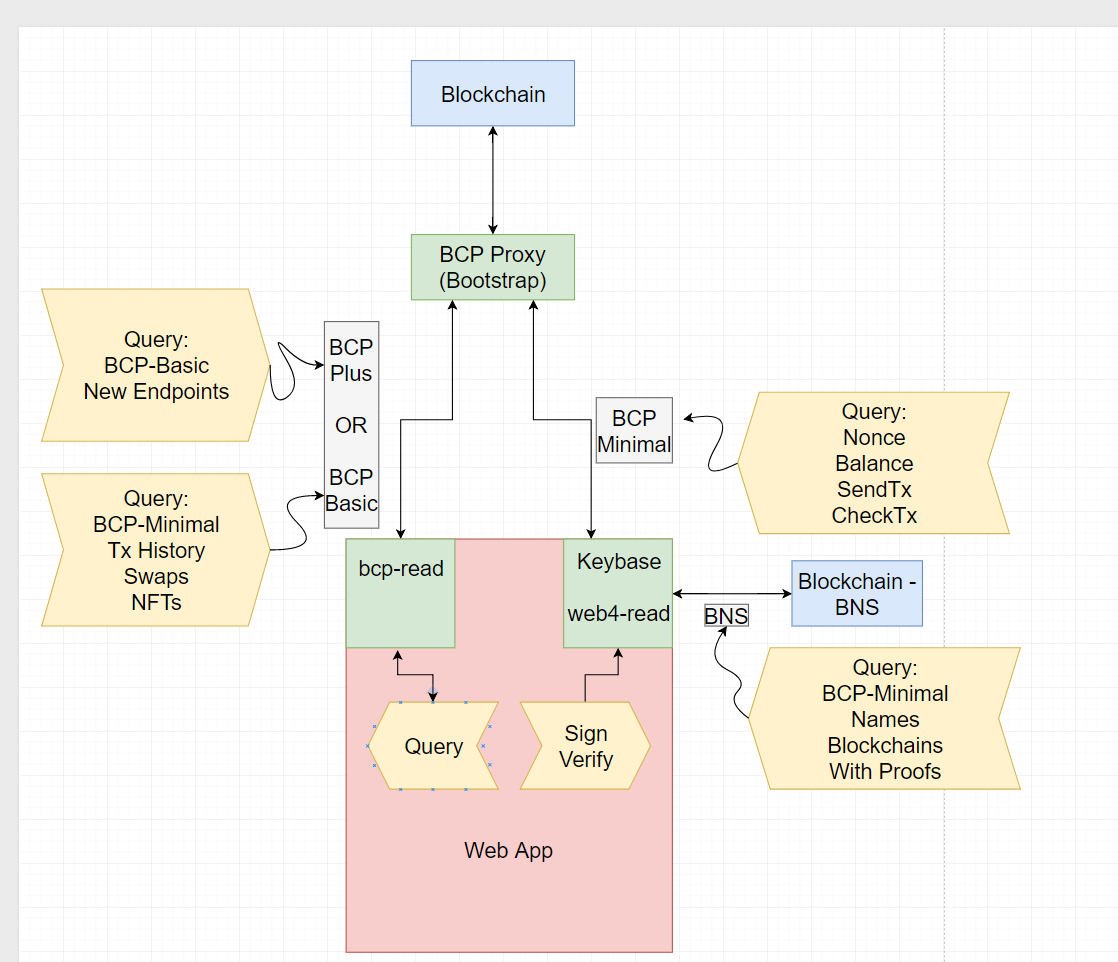
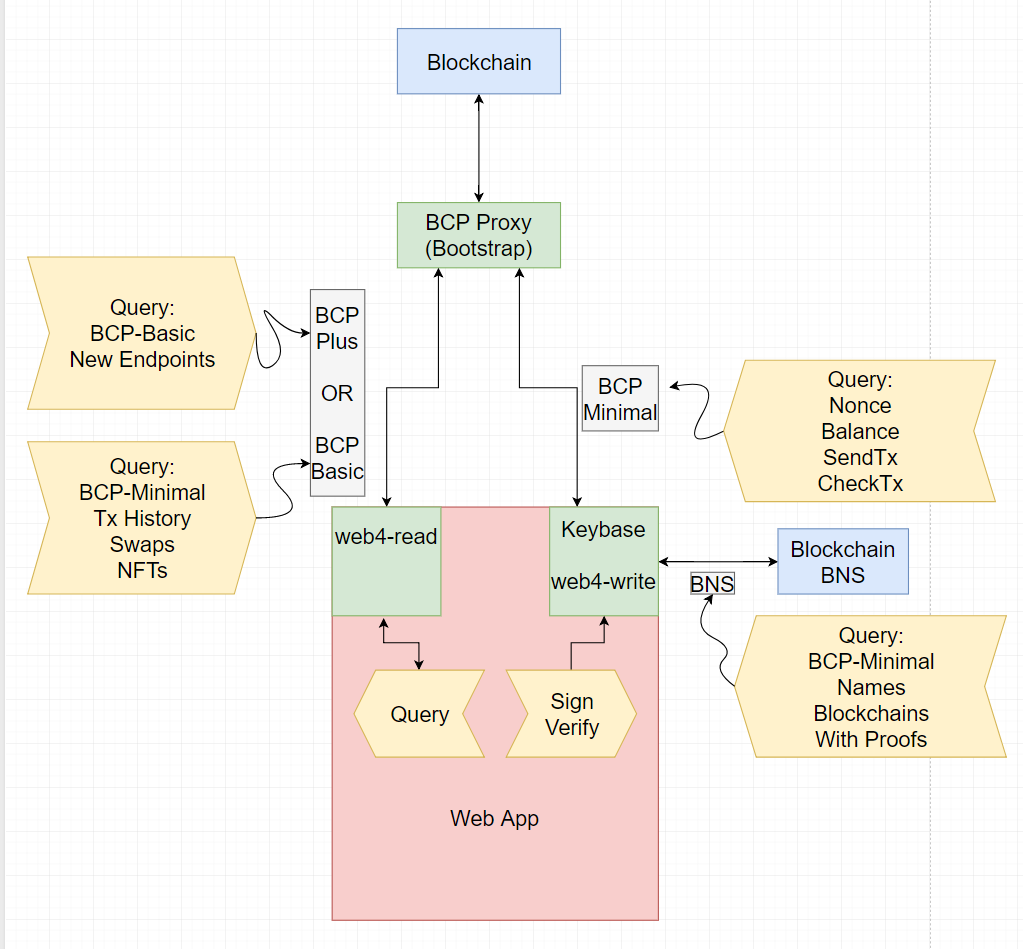
Rename OVERVIEW to README, Add component descriptions

diff --git a/docs/README.md b/docs/README.md
@@ -1,0 +1,59 @@
+# Web4 Overview
+
+After discussion with Isabella, we have a general image for the high-level view of the web4 library we want for mainnet launch:
+
+![Web4 Overview](./web4-overview.png)
+
+# Web4 Components
+
+The above diagram provides the connectivity flow which a Web4 based application will follow to enable users to access the system. There are two main avenues for accessing blockchains that are connected via the BCP. These include:
+
+- web4-read: Queries BCP proxies for data for informational purposes
+- web4-write: Queries BCP Proxies or the BNS for data that must be verified before being used for write activity
+
+## web4-read
+
+The `web4-read` library provides the entire feature set of `BCP-Minimal` and support for `BCP-Basic` as well. `BCP-Minimal`, as evidenced in the diagram, provides the ability to query the proxy for nonce and balance. This does not include the write specific functionality of `sendTx` or `checkTx`, as those operations can only occur in a trusted environment offered by the `keybase`.
+
+`BCP-Basic` offers extended support for the full feature set of the BCP. This includes querying for:
+
+- `Transaction History`
+- `Atomic Swaps/Escrow Transactions`
+- `Non Fungible Token States`
+
+This suite of features indicates total compatibility with the BCP specification and its core features.
+
+The basic feature set can be extended by both the `BCP-Proxy` and `web4-read` and is aptly named `BCP-Plus`. This means it includes all of the features of `BCP-Basic` and any new feature that are native to an implementation. This could include new endpoints, or extended functionality to existing endpoints. `BCP-Plus` serves as a blanket definition for any enhanced functionality that is not native to the core `BCP` specification.
+
+## web4-write
+
+In order to ensure users are not being fooled by the web application layer, `web4-write` is given the ability to query a subset of the `BCP` specification. This subset is named `BCP-Minimal`, as it includes the very base set of features needed to safely perform write operations against a blockchain system. This feature set enables the `keybase` to discover the proper `nonce` for a wallet address, and current balance. Additionally, this mechanism is how transactions are sent and subsequently verified by the `keybase`.
+
+`web4-write` also includes the ability to query the `BNS` directly, as these operations explicitly require verifiable proofs to ensure users are not lied to. The `BNS` feature set includes the `BCP-Minimal` feature set, and the ability to query registered `names` and `blockchain definitions`. Both of these queries include the proofs needed to make operations safe.
+
+## Web Apps
+
+The web app is a general concept in the system, this can be a web page, an electron app or some other application with the ability to implement both `web4-read` and communicate with the `keybase` application. It will use `web4-read` to perform queries against a proxy system and provide state to users. It will communicate with the `keybase` to perform blockchain specific write operations.
+
+#### Query
+
+Web apps will query through `web4-read` and provide information back to the application.
+
+#### Sign/Verify
+
+Web apps will pass all signing and verification requests to the `keybase`, which will either perform a specific set of queries to create transactions, or verify transactions against an existing blockchain.
+
+## BCP-Proxy
+
+The `BCP-Proxy` serves an abstraction layer that is independent of `web4`. It offers the ability to subscribe to an account state on for a given blockchain. At a minimum, for a blockchain to be supported, it needs to have a proxy node that supports the `BCP-Minimal` feature set.
+
+## Blockchain
+
+The blockchain is a generic concept, it lives behind the proxy and provides its data either through subscriptions from the proxy, or through polling from the proxy when requested.
+
+## Blockchain - BNS
+
+The BNS is a first class citizen in the ecosystem of `web4`. It provides the critical functions of locating supported blockchains, and registered name <> accounts. This functionality is critical for `web4` operations and must have the highest level of trust. This means that `web4-write` must be able to query it directly to ensure there is no falsification of the data itself, or the proofs provided with the data.
+
+
+We cover how to get to this vision in the [roadmap](ROADMAP.md).
